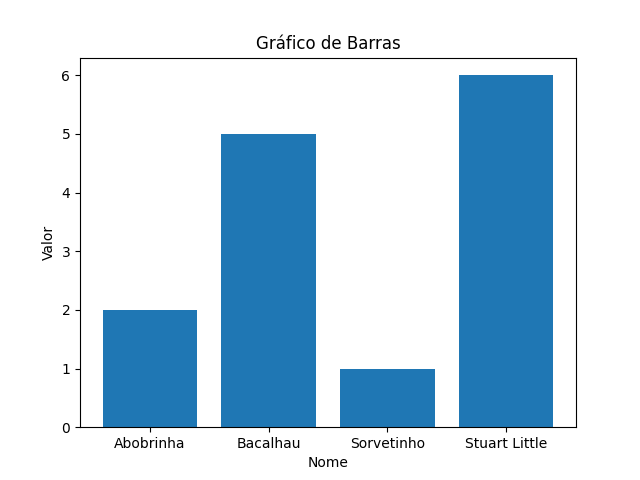
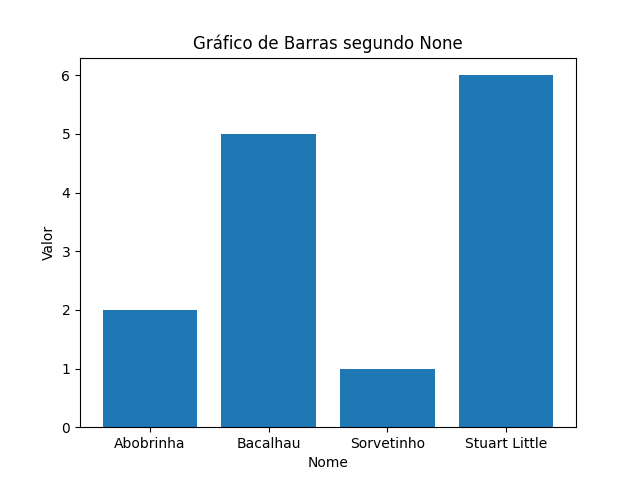
Atualização do README

Changed region(s): [[0.3125, 0.0625, 0.7188, 0.125]]

diff --git a/planilha/templates/upload_planilha.html b/planilha/templates/upload_planilha.html
@@ -8,7 +8,9 @@
     <h1>Upload de Planilha</h1>
     <form method="post" enctype="multipart/form-data">
         {% csrf_token %}
+
         {{ form.as_p }}
+
         <button type="submit">Enviar</button>
     </form>
 </body>

diff --git a/planilha/views.py b/planilha/views.py
@@ -38,23 +38,23 @@ def upload_planilha(request):
     return render(request, 'upload_planilha.html', {'form': form})
 
 def exibir_grafico(request):
-
-    # tipo_grafico = request.POST.get('tipo_grafico')
+    
+    tipo_grafico = request.POST.get('tipo_grafico')
     # Processar a planilha e criar o gráfico usando o caminho do arquivo
     caminho_arquivo = request.session.get('caminho_arquivo')
     df = pd.read_excel(caminho_arquivo)
 
     # Salvar o gráfico em um arquivo temporário
-    # if tipo_grafico == "barra":
-    plt.bar(df['Nome'], df['Valor'])
-    plt.xlabel('Nome')
-    plt.ylabel('Valor')
-    plt.title('Gráfico de Barras')
-    # else:
-    #     plt.pie(df['Nome'], df['Valor'])
-    #     plt.xlabel('Nome')
-    #     plt.ylabel('Valor')
-    #     plt.title('Gráfico de Barras')
+    if tipo_grafico == "Gráfico de Barras":
+        plt.pie(df['Nome'], df['Valor'])
+        plt.xlabel('Nome')
+        plt.ylabel('Valor')
+        plt.title('Gráfico de Barras primeiro')
+    else:
+        plt.bar(df['Nome'], df['Valor'])
+        plt.xlabel('Nome')
+        plt.ylabel('Valor')
+        plt.title(f'Gráfico de Barras segundo {tipo_grafico}')
 
     # Crie o caminho absoluto para salvar o gráfico na pasta "media"
     media_root = os.path.join(settings.BASE_DIR, 'media')

diff --git a/planilha/forms.py b/planilha/forms.py
@@ -10,8 +10,8 @@ class PlanilhaForm(forms.ModelForm):
         # Adicione outros tipos de gráfico conforme necessário
     ]
 
-    tipo_grafico = forms.ChoiceField(choices=tipos, label='Escolha o Tipo de Gráfico')  # Substitua TIPOS_GRAFICO pelas opções desejadas
+    tipo_grafico = forms.ChoiceField(choices=tipos, label='Escolha o Tipo de Gráfico')
 
     class Meta:
         model = Planilha
-        fields = ('arquivo',)
+        fields = ('arquivo', )

diff --git a/README.md b/README.md
@@ -1,6 +1,6 @@
 # Pegasus
 
-## Python-Enhanced Graphs Automation and Statistics Utility System
+## Programing-Enhanced Graphs Automation and Statistics Utility System
 
 ![pegasus_logo](https://github.com/pdrmglc/Pegasus/blob/main/capa/Imagem5.svg)
 
